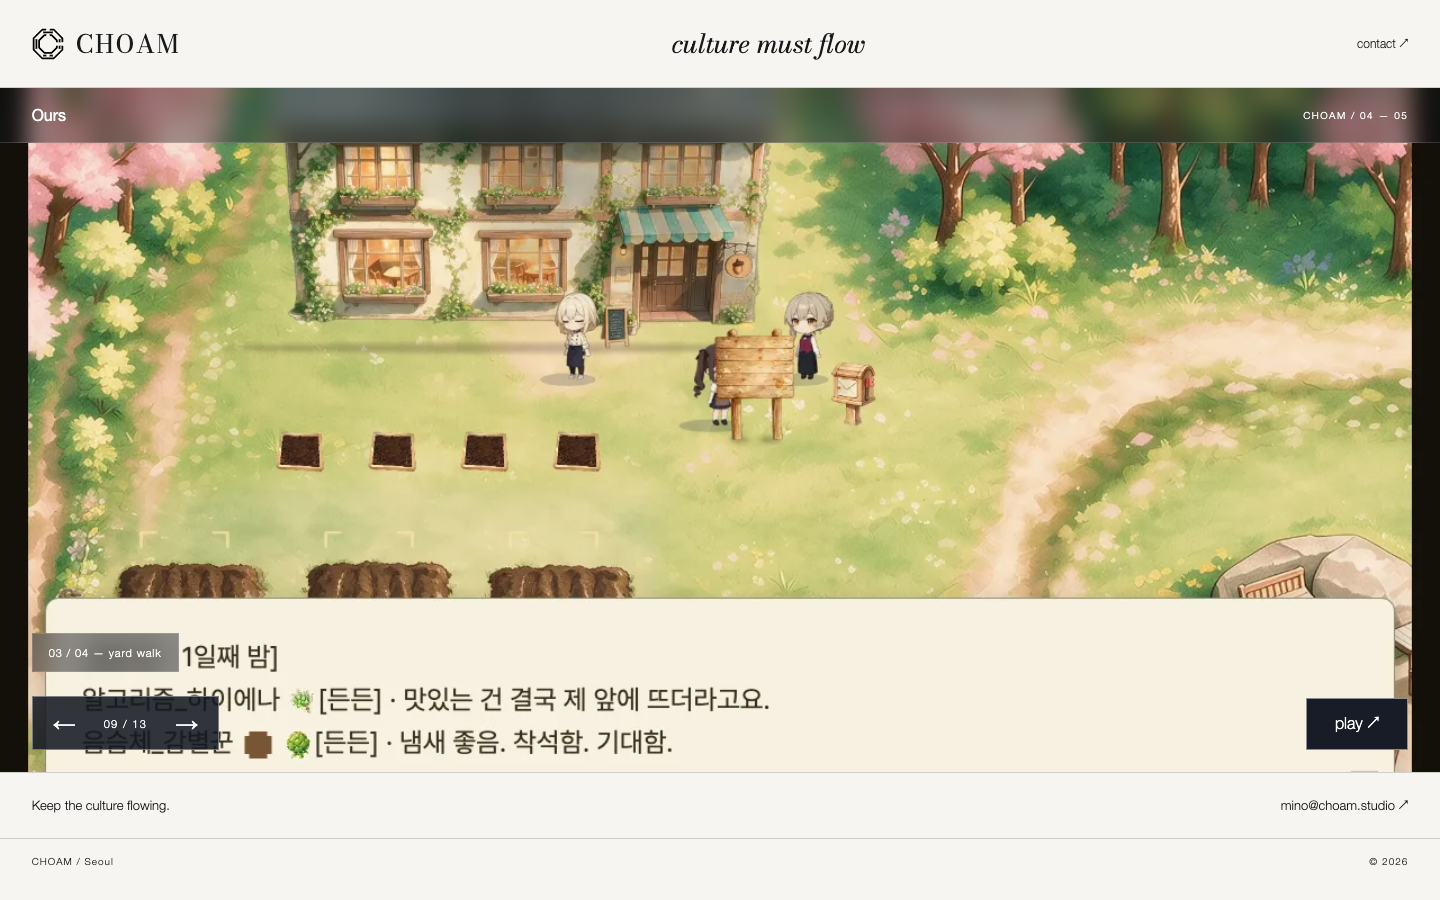
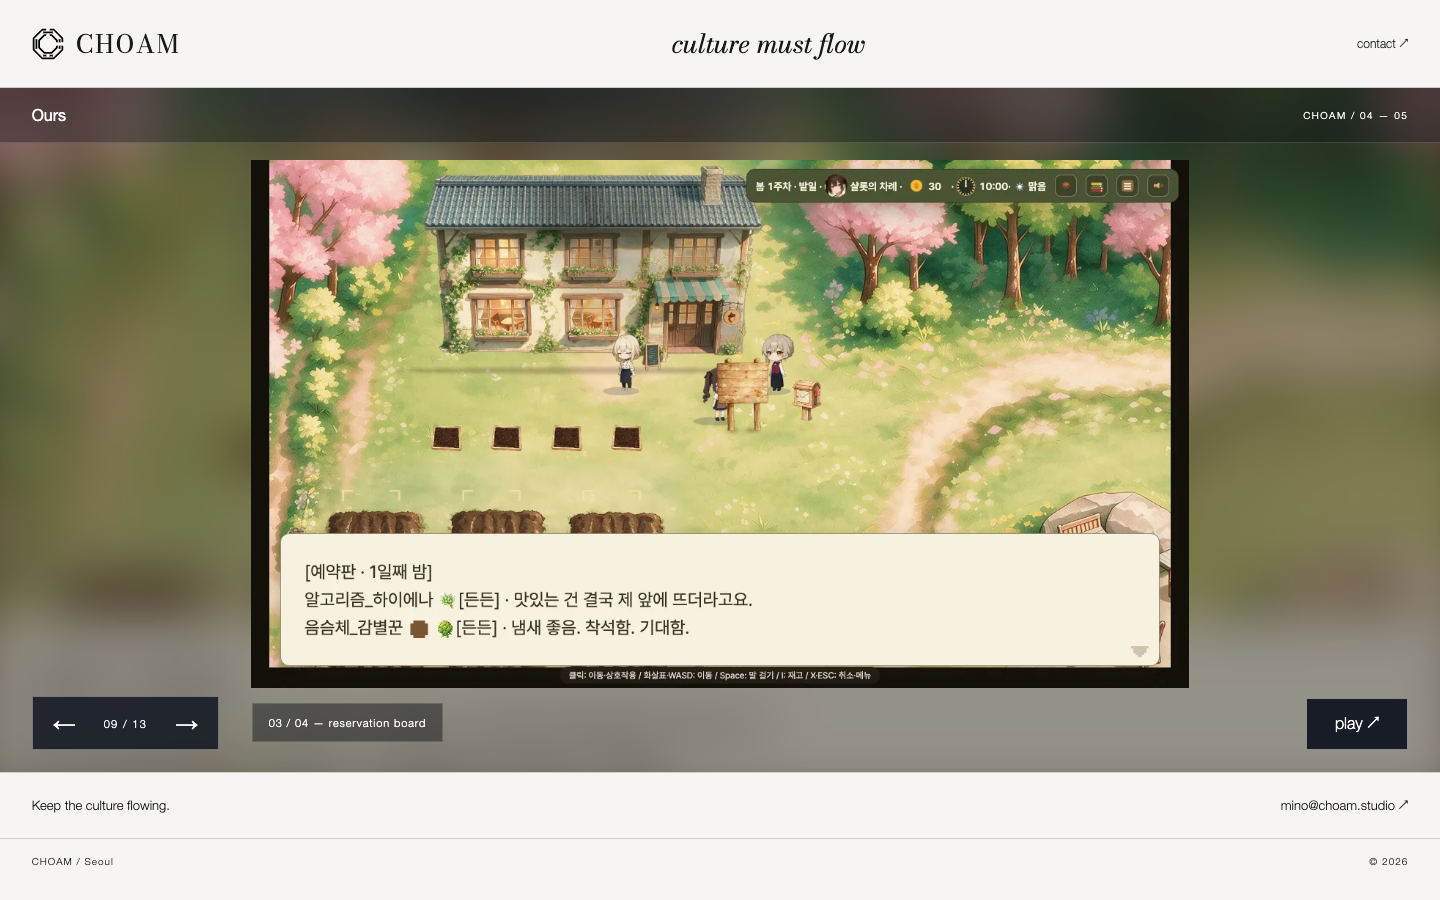
Preserve screenshot HUDs with contained images and blurred UI margins

diff --git a/index.html b/index.html
@@ -1,1 +1,1 @@
-<!doctype html><html lang="en"><head><meta charset="utf-8"><meta name="viewport" content="width=device-width,initial-scale=1"><title>CHOAM</title><meta name="description" content="culture must flow"><link rel="icon" href="assets/mark.svg"><link href="https://fonts.googleapis.com/css2?family=Bodoni+Moda:ital,wght@0,400;1,400&display=swap" rel="stylesheet"><link rel="stylesheet" href="style.css"></head><body><header class="bar"><a class="brand" href="./" aria-label="CHOAM home"><img src="assets/mark.svg" alt=""><span>CHOAM</span></a><p>culture must flow</p><a class="index-link" href="#contact">contact ↗</a></header><main id="ours"><section class="gallery" aria-label="Ours"><div class="gallery-heading"><h2>Ours</h2><span class="project-count">CHOAM / 01</span></div><div class="gallery-stage"><div class="track" tabindex="0" aria-label="Ours gallery. Use left and right arrow keys"><article class="panel art scheherazade" data-project="scheherazade"><a class="art-link" href="pages/scheherazade.html" aria-label="Explore Scheherazade"><img src="assets/scheherazade.png" alt="Scheherazade key visual" draggable="false"><div class="art-caption"><p>AI / Agent</p><h3>Scheherazade</h3><span>Explore ↗</span></div></a></article><article class="panel description" data-project="scheherazade"><img class="description-art scheherazade" src="assets/scheherazade.png" alt="" aria-hidden="true"><div class="description-copy"><p class="eyebrow">AI / Agent</p><h3><a href="pages/scheherazade.html">Scheherazade ↗</a></h3><p class="phrase">Agent stands more than 1001 nights</p><p class="placeholder">PLACEHOLDER COPY</p><p class="copy">A companion agent that remembers, keeps a journal, and reaches out. A little continuity for your everyday world.</p><a class="detail-link" href="pages/scheherazade.html">View story ↗</a></div></article><article class="panel art dat" data-project="dat"><a class="art-link" href="pages/dat.html" aria-label="Explore DAT"><span class="dat-mark" aria-hidden="true">DAT</span><div class="art-caption"><p>AI / Generative</p><h3>DAT</h3><span>Explore ↗</span></div></a></article><article class="panel description dat" data-project="dat"><span class="description-art dat-mark" aria-hidden="true">DAT</span><div class="description-copy"><p class="eyebrow">AI / Generative</p><h3><a href="pages/dat.html">DAT ↗</a></h3><p class="phrase">Illustration, in a new register</p><p class="placeholder">PLACEHOLDER COPY</p><p class="copy">A Krea LoRA for illustration generation. Explore a visual language, then make it your own.</p><a class="detail-link" href="pages/dat.html">View story ↗</a></div></article><article class="panel art donguri-ryokan" data-project="donguri-ryokan"><a class="art-link" href="pages/donguri-ryokan.html" aria-label="Explore Donguri Ryokan"><img src="assets/ryokan_kv_C2.webp" alt="Donguri Ryokan key visual" draggable="false"><div class="art-caption"><p>Game / In development</p><h3>Donguri Ryokan</h3><span>Explore ↗</span></div></a></article><article class="panel description" data-project="donguri-ryokan"><img class="description-art donguri-ryokan" src="assets/ryokan_kv_C2.webp" alt="" aria-hidden="true"><div class="description-copy"><p class="eyebrow">Game / In development</p><h3><a href="pages/donguri-ryokan.html">Donguri Ryokan ↗</a></h3><p class="phrase">Stay a little longer</p><p class="placeholder">PLACEHOLDER COPY</p><p class="copy">A quiet inn, unexpected guests, and stories after dark. Make room for another kind of everyday.</p><a class="detail-link" href="pages/donguri-ryokan.html">View story ↗</a></div></article><article class="panel art donguri-restaurant" data-project="donguri-restaurant"><a class="art-link" href="pages/donguri-restaurant.html" aria-label="Explore Donguri Restaurant"><img src="assets/restaurant-01.webp" alt="Donguri Restaurant key visual" draggable="false"><div class="art-caption"><p>Game / Play now</p><h3>Donguri Restaurant</h3><span>Explore ↗</span></div></a></article><article class="panel art donguri-restaurant sequence" data-project="donguri-restaurant"><a class="art-link" href="pages/donguri-restaurant.html" aria-label="Explore Donguri Restaurant — a table of stories"><img src="assets/restaurant-02.webp" alt="Donguri Restaurant — a table of stories" draggable="false"><span class="sequence-caption">02 / 04 — a table of stories</span></a></article><article class="panel art donguri-restaurant sequence" data-project="donguri-restaurant"><a class="art-link" href="pages/donguri-restaurant.html" aria-label="Explore Donguri Restaurant — yard walk"><img src="assets/restaurant-03.webp" alt="Donguri Restaurant — yard walk" draggable="false"><span class="sequence-caption">03 / 04 — yard walk</span></a></article><article class="panel art donguri-restaurant sequence" data-project="donguri-restaurant"><a class="art-link" href="pages/donguri-restaurant.html" aria-label="Explore Donguri Restaurant — course menu / kitchen"><img src="assets/restaurant-04.webp" alt="Donguri Restaurant — course menu / kitchen" draggable="false"><span class="sequence-caption">04 / 04 — course menu / kitchen</span></a></article><article class="panel description" data-project="donguri-restaurant"><img class="description-art donguri-restaurant" src="assets/restaurant-01.webp" alt="" aria-hidden="true"><div class="description-copy"><p class="eyebrow">Game / Play now</p><h3><a href="pages/donguri-restaurant.html">Donguri Restaurant ↗</a></h3><p class="phrase">Something good is on the table</p><p class="placeholder">PLACEHOLDER COPY</p><p class="copy">A small restaurant with a world of appetites. Cook, serve, and find your own rhythm.</p><a class="detail-link" href="pages/donguri-restaurant.html">View story ↗</a></div></article><article class="panel art seonjam" data-project="seonjam"><a class="art-link" href="pages/seonjam.html" aria-label="Explore Seonjam"><img src="assets/seonjam-main.webp" alt="Seonjam key visual" draggable="false"><div class="art-caption"><p>Visual novel / 선잠</p><h3>Seonjam</h3><span>Explore ↗</span></div></a></article><article class="panel description" data-project="seonjam"><img class="description-art seonjam" src="assets/seonjam-main.webp" alt="" aria-hidden="true"><div class="description-copy"><p class="eyebrow">Visual novel / 선잠</p><h3><a href="pages/seonjam.html">Seonjam ↗</a></h3><p class="phrase">Between waking and dreaming</p><p class="placeholder">PLACEHOLDER COPY</p><p class="copy">A visual novel about the moments we almost miss. Meet familiar faces in an unfamiliar light.</p><a class="detail-link" href="pages/seonjam.html">View story ↗</a></div></article></div><div class="gallery-controls"><button class="prev" aria-label="Previous page">←</button><span class="count" aria-live="polite"></span><button class="next" aria-label="Next page">→</button></div><a class="action" hidden></a></div></section></main><section id="contact" class="contact"><span>Keep the culture flowing.</span><a href="mailto:mino@choam.studio">mino@choam.studio ↗</a></section><footer class="foot"><span>CHOAM / Seoul</span><span>© 2026</span></footer><script src="main.js"></script></body></html>
+<!doctype html><html lang="en"><head><meta charset="utf-8"><meta name="viewport" content="width=device-width,initial-scale=1"><title>CHOAM</title><meta name="description" content="culture must flow"><link rel="icon" href="assets/mark.svg"><link href="https://fonts.googleapis.com/css2?family=Bodoni+Moda:ital,wght@0,400;1,400&display=swap" rel="stylesheet"><link rel="stylesheet" href="style.css"></head><body><header class="bar"><a class="brand" href="./" aria-label="CHOAM home"><img src="assets/mark.svg" alt=""><span>CHOAM</span></a><p>culture must flow</p><a class="index-link" href="#contact">contact ↗</a></header><main id="ours"><section class="gallery" aria-label="Ours"><div class="gallery-heading"><h2>Ours</h2><span class="project-count">CHOAM / 01</span></div><div class="gallery-stage"><div class="track" tabindex="0" aria-label="Ours gallery. Use left and right arrow keys"><article class="panel art scheherazade" data-project="scheherazade"><a class="art-link" href="pages/scheherazade.html" aria-label="Explore Scheherazade"><img src="assets/scheherazade.png" alt="Scheherazade key visual" draggable="false"><div class="art-caption"><p>AI / Agent</p><h3>Scheherazade</h3><span>Explore ↗</span></div></a></article><article class="panel description" data-project="scheherazade"><img class="description-art scheherazade" src="assets/scheherazade.png" alt="" aria-hidden="true"><div class="description-copy"><p class="eyebrow">AI / Agent</p><h3><a href="pages/scheherazade.html">Scheherazade ↗</a></h3><p class="phrase">Agent stands more than 1001 nights</p><p class="placeholder">PLACEHOLDER COPY</p><p class="copy">A companion agent that remembers, keeps a journal, and reaches out. A little continuity for your everyday world.</p><a class="detail-link" href="pages/scheherazade.html">View story ↗</a></div></article><article class="panel art dat" data-project="dat"><a class="art-link" href="pages/dat.html" aria-label="Explore DAT"><span class="dat-mark" aria-hidden="true">DAT</span><div class="art-caption"><p>AI / Generative</p><h3>DAT</h3><span>Explore ↗</span></div></a></article><article class="panel description dat" data-project="dat"><span class="description-art dat-mark" aria-hidden="true">DAT</span><div class="description-copy"><p class="eyebrow">AI / Generative</p><h3><a href="pages/dat.html">DAT ↗</a></h3><p class="phrase">Illustration, in a new register</p><p class="placeholder">PLACEHOLDER COPY</p><p class="copy">A Krea LoRA for illustration generation. Explore a visual language, then make it your own.</p><a class="detail-link" href="pages/dat.html">View story ↗</a></div></article><article class="panel art donguri-ryokan" data-project="donguri-ryokan"><a class="art-link" href="pages/donguri-ryokan.html" aria-label="Explore Donguri Ryokan"><img src="assets/ryokan_kv_C2.webp" alt="Donguri Ryokan key visual" draggable="false"><div class="art-caption"><p>Game / In development</p><h3>Donguri Ryokan</h3><span>Explore ↗</span></div></a></article><article class="panel description" data-project="donguri-ryokan"><img class="description-art donguri-ryokan" src="assets/ryokan_kv_C2.webp" alt="" aria-hidden="true"><div class="description-copy"><p class="eyebrow">Game / In development</p><h3><a href="pages/donguri-ryokan.html">Donguri Ryokan ↗</a></h3><p class="phrase">Stay a little longer</p><p class="placeholder">PLACEHOLDER COPY</p><p class="copy">A quiet inn, unexpected guests, and stories after dark. Make room for another kind of everyday.</p><a class="detail-link" href="pages/donguri-ryokan.html">View story ↗</a></div></article><article class="panel art donguri-restaurant" data-project="donguri-restaurant"><a class="art-link" href="pages/donguri-restaurant.html" aria-label="Explore Donguri Restaurant"><img src="assets/restaurant-01.webp" alt="Donguri Restaurant key visual" draggable="false"><div class="art-caption"><p>Game / Play now</p><h3>Donguri Restaurant</h3><span>Explore ↗</span></div></a></article><article class="panel art donguri-restaurant sequence screenshot" data-project="donguri-restaurant"><a class="art-link" href="pages/donguri-restaurant.html" aria-label="Explore Donguri Restaurant — a table of stories"><img class="screenshot-backdrop" src="assets/restaurant-02.webp" alt="" aria-hidden="true"><img class="screenshot-image" src="assets/restaurant-02.webp" alt="Donguri Restaurant — a table of stories" draggable="false"><span class="sequence-caption">02 / 04 — a table of stories</span></a></article><article class="panel art donguri-restaurant sequence screenshot" data-project="donguri-restaurant"><a class="art-link" href="pages/donguri-restaurant.html" aria-label="Explore Donguri Restaurant — reservation board"><img class="screenshot-backdrop" src="assets/restaurant-03.webp" alt="" aria-hidden="true"><img class="screenshot-image" src="assets/restaurant-03.webp" alt="Donguri Restaurant — reservation board" draggable="false"><span class="sequence-caption">03 / 04 — reservation board</span></a></article><article class="panel art donguri-restaurant sequence screenshot" data-project="donguri-restaurant"><a class="art-link" href="pages/donguri-restaurant.html" aria-label="Explore Donguri Restaurant — course menu / kitchen"><img class="screenshot-backdrop" src="assets/restaurant-04.webp" alt="" aria-hidden="true"><img class="screenshot-image" src="assets/restaurant-04.webp" alt="Donguri Restaurant — course menu / kitchen" draggable="false"><span class="sequence-caption">04 / 04 — course menu / kitchen</span></a></article><article class="panel description" data-project="donguri-restaurant"><img class="description-art donguri-restaurant" src="assets/restaurant-01.webp" alt="" aria-hidden="true"><div class="description-copy"><p class="eyebrow">Game / Play now</p><h3><a href="pages/donguri-restaurant.html">Donguri Restaurant ↗</a></h3><p class="phrase">Something good is on the table</p><p class="placeholder">PLACEHOLDER COPY</p><p class="copy">A small restaurant with a world of appetites. Cook, serve, and find your own rhythm.</p><a class="detail-link" href="pages/donguri-restaurant.html">View story ↗</a></div></article><article class="panel art seonjam" data-project="seonjam"><a class="art-link" href="pages/seonjam.html" aria-label="Explore Seonjam"><img src="assets/seonjam-main.webp" alt="Seonjam key visual" draggable="false"><div class="art-caption"><p>Visual novel / 선잠</p><h3>Seonjam</h3><span>Explore ↗</span></div></a></article><article class="panel description" data-project="seonjam"><img class="description-art seonjam" src="assets/seonjam-main.webp" alt="" aria-hidden="true"><div class="description-copy"><p class="eyebrow">Visual novel / 선잠</p><h3><a href="pages/seonjam.html">Seonjam ↗</a></h3><p class="phrase">Between waking and dreaming</p><p class="placeholder">PLACEHOLDER COPY</p><p class="copy">A visual novel about the moments we almost miss. Meet familiar faces in an unfamiliar light.</p><a class="detail-link" href="pages/seonjam.html">View story ↗</a></div></article></div><div class="gallery-controls"><button class="prev" aria-label="Previous page">←</button><span class="count" aria-live="polite"></span><button class="next" aria-label="Next page">→</button></div><a class="action" hidden></a></div></section></main><section id="contact" class="contact"><span>Keep the culture flowing.</span><a href="mailto:mino@choam.studio">mino@choam.studio ↗</a></section><footer class="foot"><span>CHOAM / Seoul</span><span>© 2026</span></footer><script src="main.js"></script></body></html>

diff --git a/style.css b/style.css
@@ -31,3 +31,10 @@
 @media(max-width:600px){.art.scheherazade img,.description[data-project="scheherazade"] .description-art{left:16px;top:80px;width:130px;height:130px;max-height:none;transform:none}.description[data-project="scheherazade"]{align-items:flex-end;padding:74px 16px 92px}.description[data-project="scheherazade"]::before{background:linear-gradient(0deg,rgba(235,235,235,.9) 0%,rgba(235,235,235,.85) 55%,rgba(235,235,235,0) 90%);transform:translateY(8%)}.description[data-project="scheherazade"] .description-copy{margin:0;width:100%;padding:16px 0 0;transform:translateY(28px)}.description[data-project="scheherazade"].is-active::before,.description[data-project="scheherazade"].is-active .description-copy{transform:translateY(0)}.description[data-project="scheherazade"] h3{font-size:36px}.description[data-project="scheherazade"] .phrase{font-size:23px}}
 
 .sequence .art-link::after{display:none}.sequence-caption{position:absolute;left:var(--pad);bottom:100px;padding:12px 16px;background:rgba(10,14,22,.45);backdrop-filter:blur(12px);-webkit-backdrop-filter:blur(12px);border:1px solid #ffffff25;font-size:11px;letter-spacing:.08em;color:#fff}
+
+/* Reusable in-game screenshot layout: preserve every pixel and reserve UI margins. */
+.screenshot{overflow:hidden}
+.screenshot .screenshot-backdrop{position:absolute;inset:0;width:100%;height:100%;object-fit:cover;filter:blur(24px) brightness(.6);transform:scale(1.1);pointer-events:none}
+.screenshot .screenshot-image{position:absolute;left:var(--pad);top:72px;width:calc(100% - 2 * var(--pad));height:calc(100% - 156px);object-fit:contain;object-position:center;z-index:1}
+.screenshot .sequence-caption{left:calc(var(--pad) + 220px);bottom:30px;z-index:2}
+@media(max-width:600px){.screenshot .screenshot-image{top:64px;height:calc(100% - 196px)}.screenshot .sequence-caption{left:16px;bottom:86px}}
